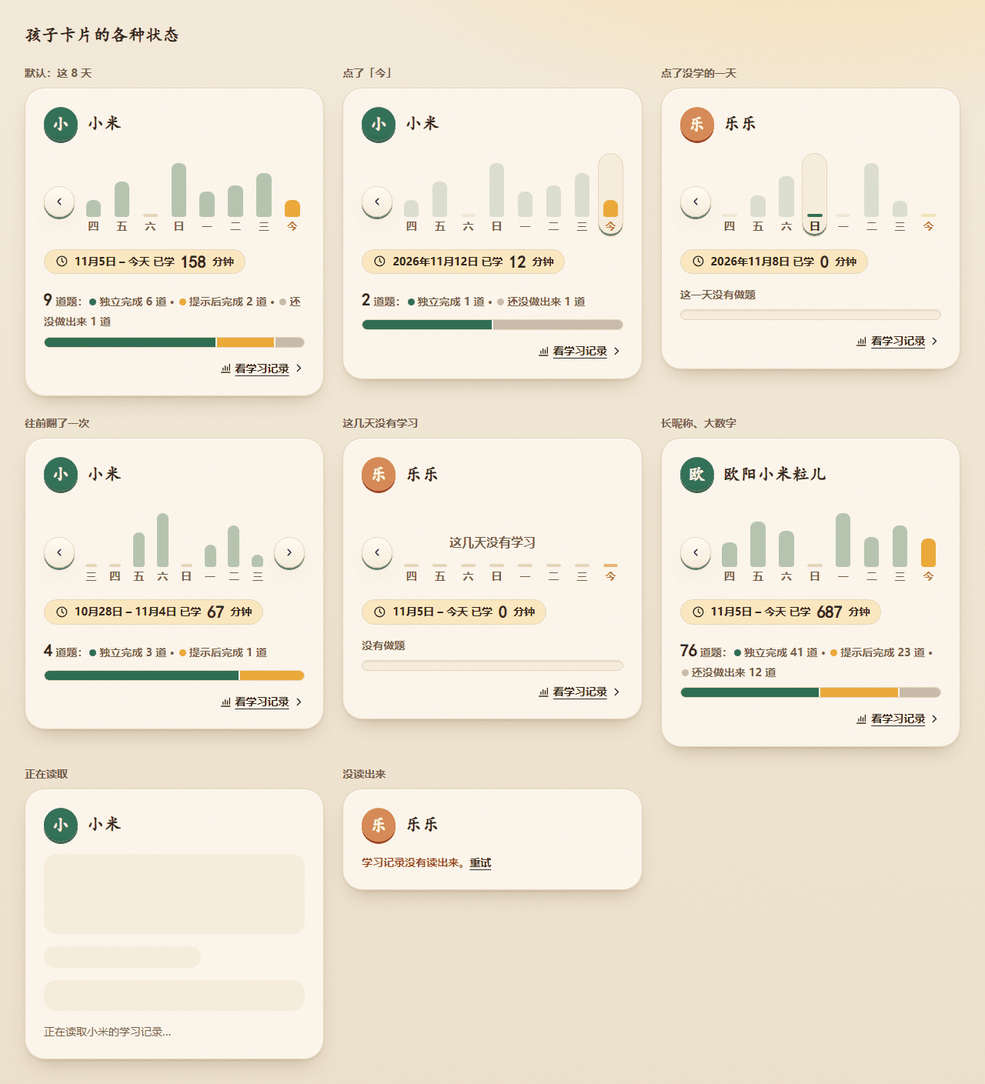
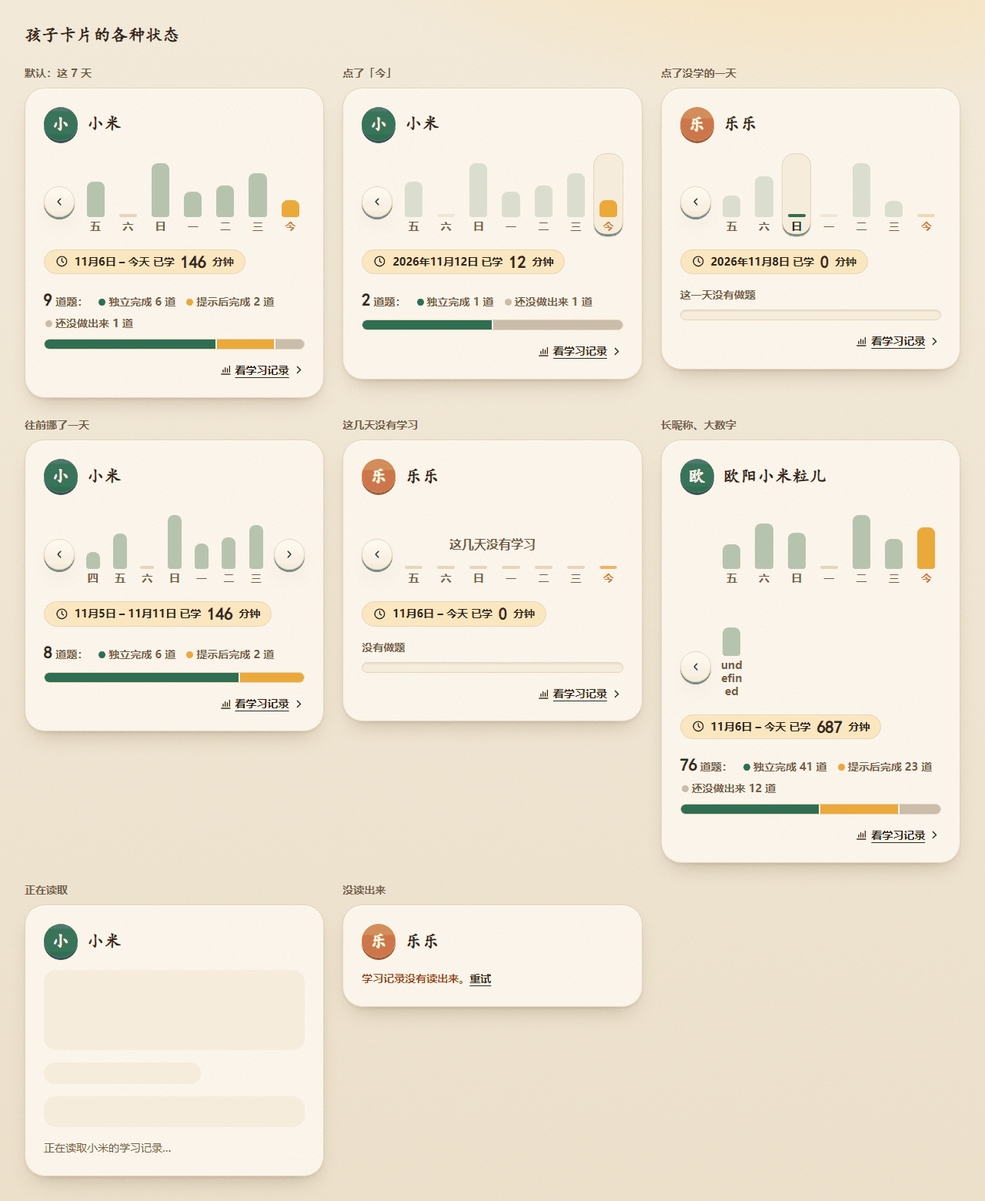
docs(design): show seven days on the child card and move them a day at a time (#164)
The chart shows today and the six days before it; each step moves the
window one day. The overview sends 28 days and earlier days come in blocks
of 28, so moving the window slides locally. The problems line keeps each
part whole, the given books show progress with a bar, and study time splits
into two pull requests.

Changed region(s): [[0.0, 0.0312, 1.0, 0.8432], [0.0312, 0.0, 0.1875, 0.1249], [0.0312, 0.9368, 0.1562, 0.9681]]

diff --git a/docs/design/family-overview.md b/docs/design/family-overview.md
@@ -1,6 +1,6 @@
 # 家长总览：每天的学习、学习时长和家庭时区
 
-- 状态：AI 草稿，等维护者确认第二版样稿。规则是维护者 2026-11-12 在 [#164](https://github.com/juanchaopan/education/issues/164) 定下的，看过第一版样稿后的修改记在 [#164 记录](../evidence/164/README.md#维护者的意见)。
+- 状态：AI 草稿，等维护者确认第三版样稿。规则是维护者 2026-11-12 在 [#164](https://github.com/juanchaopan/education/issues/164) 定下的，看过第一版样稿后的修改记在 [#164 记录](../evidence/164/README.md#维护者的意见)。
 - 需求：REQ-005、REQ-009、REQ-002、REQ-011（都有 2026-11-12 的澄清）。变更原因见 [变更记录](../changes/2026-11-12-family-overview.md)。
 - 涉及：`libs/contracts`；`apps/api` 的 `learning`（总览、每天的数字、一段时间的学习记录、学习计时）和 `identity`（家庭时区、注册、导出、删除）；`apps/web` 的家长空间（总览的孩子卡片、学习记录、「家庭」页）、题目页的计时和网站的白天晚上主题。「已安排」的书和进度照 [家长书架](bookshelf.md) 不变。
 
@@ -10,8 +10,8 @@
 
 之后：
 
-- 每个孩子一张卡片，最上面是每天学习分钟的柱子：今天和它前面的 7 天，一共 8 根。柱子也是选择器：点一天，下面的数字只看这一天，再点一下回到 8 天。
-- 往左能看更早的日子，边看边加载。
+- 每个孩子一张卡片，最上面是每天学习分钟的柱子，一次 7 根：默认是今天和它前面的 6 天。柱子也是选择器：点一天，下面的数字只看这一天，再点一下回到这 7 天。
+- 往左一天一天地看更早的日子，边看边加载。
 - 下面是这几天（或这一天）学了多少分钟，和一根按题分段的横条：做了几道题，其中独立完成、提示后完成、还没做出来各几道。
 - 学习时长有真实的来源：孩子在题目页上动手学的时间。
 - 每个家庭有自己的时区，一天从这个时区的 0 点算起；家里的页面也按它换白天和晚上的样子。时区和孩子、家庭码一起放在「家庭」页。
@@ -22,13 +22,13 @@
 ### 一天和看的日子
 
 - **一天**从家庭时区的 0 点开始，到下一个 0 点结束。今天还没过完，数字算到现在。
-- 卡片默认看**最近 8 天**：今天和它前面的 7 天，柱子下面依次写星期，今天写「今」。11 月 12 日周四看到的是 11 月 5 日到 11 月 12 日：四 五 六 日 一 二 三 今。
-- **往前看**：每点一次「‹」往前挪 8 天（10 月 28 日到 11 月 4 日，再往前 10 月 20 日到 10 月 27 日……），各段首尾相接、不重叠；挪回来点「›」。触屏上也可以左右滑。翻到孩子最早有记录的那一段时，「‹」不能点。
-- **选一天**：点一根柱子，数字只看这一天；再点同一根回到这 8 天。往前或往后挪时选择取消。
+- 柱子一次显示 **7 天**。默认是今天和它前面的 6 天，柱子下面依次写星期，今天写「今」：11 月 12 日周四看到的是 11 月 6 日到 11 月 12 日，五 六 日 一 二 三 今。
+- **往前看**：每点一次「‹」（或在触屏上往右滑一格），7 天整体往前挪**一天**：第一次是到昨天为止的 7 个完整日（11 月 5 日到 11 日），再点一次是 11 月 4 日到 10 日，以此类推；「›」往后挪一天，挪回到今天为止时「›」消失。翻到孩子最早有记录的那一天成为第一列时，「‹」不能点。
+- **选一天**：点一根柱子，数字只看这一天；再点同一根回到显示的 7 天。挪动时选择取消。
 
 ### 题怎么数
 
-数的是**道**，不是次。一段时间（8 天或一天）里，孩子提交过作答或要过提示的每一道题（按题目 id，同一道题的几个版本算一道）正好归进下面一类，三类加起来就是「做了几道题」：
+数的是**道**，不是次。一段时间（显示的 7 天或一天）里，孩子提交过作答或要过提示的每一道题（按题目 id，同一道题的几个版本算一道）正好归进下面一类，三类加起来就是「做了几道题」：
 
 | 类         | 这段时间里                                               |
 | ---------- | -------------------------------------------------------- |
@@ -36,7 +36,7 @@
 | 提示后完成 | 没有独立完成，至少有一次提示后完成                       |
 | 还没做出来 | 作答过或要过提示，但没有完成（答错、判不出或只看了提示） |
 
-- 一次作答算在它提交的那一天，一次提示算在要提示的那一天，都按家庭时区。所以同一道题在一天里是「还没做出来」，在包含第二天的 8 天里可能是「独立完成」。
+- 一次作答算在它提交的那一天，一次提示算在要提示的那一天，都按家庭时区。所以同一道题在一天里是「还没做出来」，在包含第二天的 7 天里可能是「独立完成」。
 - 提示后完成不算独立完成。数字只说做了什么，不说掌握了没有。
 - 变化题（#217）的结果不进这些数；家长怎样看变化题由 #219 决定。
 
@@ -73,13 +73,15 @@
 
 ## 接口
 
-一段时间的数字都是同一个形状：
+每一天的数字是一个 `Day`；显示的 7 天合起来的道数不能把每天的道数相加（同一道题可能两天都做），所以按需要由服务器另算：
 
 ```text
-Problems = { independent, assisted, open }       // 三类各几道题，加起来是做了几道
-Day      = { date, seconds, problems: Problems }
-Range    = { from, to, seconds, problems: Problems }
+Problems = { independent, assisted, open }   // 三类各几道题，加起来是做了几道
+Day      = { date, seconds, problems: Problems, ids: Outcome[] }
+Outcome  = [problemId, 'independent' | 'assisted' | 'open']   // 这一天每道题的类
 ```
+
+每一天带上这一天做过的题和类（`ids`，一天通常只有几道），网页把显示的 7 天里的 `ids` 合起来，按「独立完成 > 提示后完成 > 还没做出来」取每道题最好的一类，就得到 7 天合起来的道数，不用为每一次挪动再问服务器。分钟直接相加。
 
 ### 家长：总览
 
@@ -90,33 +92,32 @@ Range    = { from, to, seconds, problems: Problems }
   timeZone, today,                       // 家庭时区和它的今天，例如 '2026-11-12'
   children: [{
     id,
-    days:  [Day],                        // 8 项，从早到晚，最后一项是今天
-    range: Range,                        // 这 8 天合起来
-    hasEarlier,                          // 更早还有没有作答、提示或学习时长
+    days: [Day],                         // 今天和前面的 27 天，共 28 天，从早到晚
+    earliest,                            // 最早有作答、提示或学习时长的日子，没有记录时为 null
     review: [{ id, version, title, incorrect }]
   }]
 }
 ```
 
-- `children` 是家里的每个孩子，顺序和孩子列表一样；没有记录的孩子数字都是 0。
-- `review` 是学习摘要标为建议复习的题（答错过、还没有独立完成），和现在「值得再练」的规则一样；题目清单里找不到的版本不列。
-- 第一个 PR 先只给 `id`、按全部记录累计的 `total` 和 `review`，页面不变；学习时长的 PR 换成上面的形状。
+- 一次给 28 天：默认显示最后 7 天，往前挪 21 次以内都不用再请求。
+- `children` 是家里的每个孩子，顺序和孩子列表一样；`review` 是学习摘要标为建议复习的题，和现在「值得再练」的规则一样，题目清单里找不到的版本不列。
+- 第一个 PR 先只给 `id`、按全部记录累计的 `total` 和 `review`，页面不变；C2 换成上面的形状。
 
 ### 家长：更早的日子
 
-`GET /api/v1/parents/children/:childId/days?to=`，家长会话。`to` 是要看的 8 天的最后一天（`YYYY-MM-DD`）。回答 `{ days: [Day], range: Range, hasEarlier }`，`days` 是 `to` 和它前面的 7 天。`to` 不是合法日子或晚于今天：400；孩子不在这个家庭：404。
+`GET /api/v1/parents/children/:childId/days?to=`，家长会话。回答 `{ days: [Day] }`：`to`（`YYYY-MM-DD`）和它前面的 27 天。显示的 7 天离已加载的最早一天不到 7 天时，网页提前取下一块 28 天，挪动不等网络；`to` 早于 `earliest` 时不再取。`to` 不是合法日子或晚于今天：400；孩子不在这个家庭：404。
 
 ### 家长：一段时间的学习记录
 
-`GET /api/v1/parents/children/:childId/learning?from=&to=`，家长会话，`from` 到 `to` 最多 8 天。回答：
+`GET /api/v1/parents/children/:childId/learning?from=&to=`，家长会话，`from` 到 `to` 最多 7 天。回答：
 
 ```text
-{ range: Range,
+{ from, to, seconds, problems: Problems,
   items: [{ id, version, title, state, attempts, hints }],  // 这段时间做过的每道题
   total: { problems, seconds } }                             // 全部记录：做过几道题、一共学了多久
 ```
 
-`state` 是上表的三类之一，`attempts` 和 `hints` 是这段时间里的作答和提示次数；独立完成在前，然后是提示后完成和还没做出来，同一类按题名。超过 8 天、`from` 晚于 `to` 或 `to` 晚于今天：400。
+`state` 是上表的三类之一，`attempts` 和 `hints` 是这段时间里的作答和提示次数；独立完成在前，然后是提示后完成和还没做出来，同一类按题名。超过 7 天、`from` 晚于 `to` 或 `to` 晚于今天：400。
 
 ### 孩子：学习计时
 
@@ -144,19 +145,19 @@ Range    = { from, to, seconds, problems: Problems }
 每个孩子一张卡片，从上到下：
 
 1. 头像和昵称。
-2. **柱子**：8 列，每列是一个切换按钮（`aria-pressed`），整列都能点，没学的一天只有一道细线，上面照样留出空白可以点。柱高是这一天的学习分钟，按这 8 天里最多的一天定比例；柱子上不写数字，读屏读「11 月 5 日 12 分钟」。今天那一列的字写「今」，柱子和别的一样画，只换成强调色。选中的一列有浅底和厚度边，别的列的柱子变淡。左边一个圆形的「‹」按钮往前看；往前看过以后右边出现「›」往回看。这 8 天都没学时，柱子上方一行「这几天没有学习」，卡片其余部分照常。
-3. **分钟**：一枚胶囊。8 天时写「11月5日 – 今天 已学 158 分钟」（往前看时是「10月28日 – 11月4日 已学 67 分钟」）；选了一天写「2026年11月12日 已学 12 分钟」。今天学了多少点「今」就能看到，不另写一行。
-4. **题**：一行字「9 道题：独立完成 6 道 · 提示后完成 2 道 · 还没做出来 1 道」（是 0 的类不写），下面一根横条，按三类的道数分段，颜色和字前的圆点对应。没有题时写「没有做题」（选了一天时「这一天没有做题」），横条是空的。
-5. 右下角「看学习记录」，去这个孩子的学习记录，带上卡片现在看的日子：选了一天就是这一天，否则是这 8 天。
+2. **柱子**：7 列，每列是一个切换按钮（`aria-pressed`），整列都能点，没学的一天只有一道细线，上面照样留出空白可以点。柱高是这一天的学习分钟，按显示的 7 天里最多的一天定比例；柱子上不写数字，读屏读「11 月 5 日 12 分钟」。今天那一列的字写「今」，柱子和别的一样画，只换成强调色。选中的一列有浅底和厚度边，别的列的柱子变淡。左边一个圆形的「‹」按钮往前挪一天；往前挪过以后右边出现「›」往后挪一天。显示的 7 天都没学时，柱子上方一行「这几天没有学习」，卡片其余部分照常。
+3. **分钟**：一枚胶囊。默认写「11月6日 – 今天 已学 146 分钟」（往前挪一天时是「11月5日 – 11月11日 已学 146 分钟」）；选了一天写「2026年11月12日 已学 12 分钟」。今天学了多少点「今」就能看到，不另写一行。
+4. **题**：一行字「9 道题：独立完成 6 道　提示后完成 2 道　还没做出来 1 道」（是 0 的类不写；每一段不拆开，桌面上一行放下，手机上整段换行），下面一根横条，按三类的道数分段，颜色和字前的圆点对应。没有题时写「没有做题」（选了一天时「这一天没有做题」），横条是空的。
+5. 右下角「看学习记录」，去这个孩子的学习记录，带上卡片现在看的日子：选了一天就是这一天，否则是显示的 7 天。
 
 其他状态：正在读取时是柱子、胶囊和横条的骨架；没读出来时一行「学习记录没有读出来。」和「重试」。卡片上不安排书。
 
-「值得再练」「已安排」不变。底部的设置列表把原来没有的「家庭」加在 AI 老师下面，右边小字「孩子、家庭码、时区」，去「家庭」页。
+「值得再练」不变。「已安排」每行右边的「5 / 12」不再放在圆角框里，改成数字下面一根细进度条，和 #221 孩子首页的样子一样。底部的设置列表把原来没有的「家庭」加在 AI 老师下面，右边小字「孩子、家庭码、时区」，去「家庭」页。
 
 ### 学习记录（`/family/learning`）
 
 1. 最上面一行选孩子，和书架上选孩子的一行同样的胶囊，换掉现在的下拉框。
-2. **这段时间**卡片：地址里 `?child=<id>&from=<日子>&to=<日子>`，从总览过来时就是卡片看的日子；直接打开时是最近 8 天。标题是日子（一天写「2026年11月12日 周四」，8 天写「11月5日 – 今天」）；看一天时右边有「看这 8 天」，换成包含这一天的 8 天。下面是分钟胶囊、题的横条，再下面列出这段时间做过的每道题：题名，「作答 2 次 · 提示 0 次」，右边是这道题这段时间的类（独立完成、提示后完成、还没做出来的徽章）。
+2. **这段时间**卡片：地址里 `?child=<id>&from=<日子>&to=<日子>`，从总览过来时就是卡片看的日子；直接打开时是今天和前 6 天，最多 7 天。标题是日子（一天写「2026年11月12日 周四」，7 天写「11月6日 – 今天」）；看一天时右边有「看这 7 天」，换成以这一天为最后一天的 7 天（今天就是今天和前 6 天）。下面是分钟胶囊、题的横条，再下面列出这段时间做过的每道题：题名，「作答 2 次 · 提示 0 次」，右边是这道题这段时间的类（独立完成、提示后完成、还没做出来的徽章）。
 3. **学习摘要**卡片：最上面一行全部记录的累计「一共做过 38 道题 · 学了 6 小时 20 分」（不到 1 小时写「45 分钟」），下面是现在每道题的摘要，内容不变。
 
 第一版样稿里学习记录的「前 7 天 / 后 7 天」翻页去掉了，往前看在总览的柱子上做；那一版的「一共」累计搬到学习摘要卡片的第一行。
@@ -187,26 +188,27 @@ Range    = { from, to, seconds, problems: Problems }
 
 ## 实现要点
 
-- `learning/domain`：日子的计算（家庭时区的今天、8 天一段的起止、按时区把时刻归到日子）和题的分类都是不依赖数据库的纯函数。日子用 `Intl` 换算，不手写偏移，夏令时由它处理。
-- 仓储一次查一个家庭全部孩子 8 天的作答、提示和学习时长，不按孩子或按天逐个查；按时区分天在 SQL 里用 `AT TIME ZONE` 做。
+- `learning/domain`：日子的计算（家庭时区的今天、显示的 7 天的起止、28 天一块的起止、按时区把时刻归到日子）和题的分类都是不依赖数据库的纯函数。日子用 `Intl` 换算，不手写偏移，夏令时由它处理。
+- 仓储一次查一个家庭全部孩子这几天的作答、提示和学习时长，不按孩子或按天逐个查；按时区分天在 SQL 里用 `AT TIME ZONE` 做。
 - 学习计时的事务锁住这个孩子的 `study_beats` 一行，再加到 `study_days`，并发的心跳排队，不多算。
 - 网页的计时放在题目页的公共外壳里，所有题目共用，题目自己不写。
-- 柱子往前看时用「更早的日子」接口按需加载，加载过的段留在缓存里；触屏左右滑和按钮走同一个状态。
+- 柱子挪动只在网页里滑动已加载的日子，快到头时提前取下一块 28 天，加载过的留在缓存里；触屏左右滑和按钮走同一个状态。
 - 主题的计算 `themeAt` 接一个时区参数；页面开着时每分钟检查一次，跨过切换时刻就换。
 
 ## 测试
 
-- 单元：日子的计算（时区边界、夏令时那天、今天算到现在、8 天一段首尾相接）；题的分类，三类各一条例子，再加一道题跨两天的例子；心跳间隔（30 秒、正好 90 秒、91 秒、重复心跳、跨午夜）。
+- 单元：日子的计算（时区边界、夏令时那天、今天算到现在、7 天窗口一天一天挪）；题的分类，三类各一条例子，再加一道题跨两天的例子；心跳间隔（30 秒、正好 90 秒、91 秒、重复心跳、跨午夜）。
 - 接口：三个家长接口的每个错误；家庭隔离；时区的读写和校验；注册带和不带时区。
 - 数据库：两次并发心跳只加一次间隔；删除家庭后没有学习时长留下；导出包括时区和每一天。
-- 页面：卡片的每个状态（默认、选一天、选没学的一天、往前看、没有学习、读取中、没读出来），学习记录的一天和 8 天，「家庭」页和时区卡片的每个状态（Storybook、视觉基准，白天和晚上，桌面和手机）；e2e 走一遍孩子学一会儿、家长在卡片上看到分钟并点开那一天。
+- 页面：卡片的每个状态（默认、选一天、选没学的一天、往前挪一天、没有学习、读取中、没读出来），学习记录的一天和 7 天，「家庭」页和时区卡片的每个状态（Storybook、视觉基准，白天和晚上，桌面和手机）；e2e 走一遍孩子学一会儿、家长在卡片上看到分钟并点开那一天。
 
 ## 分 PR
 
 都挂在 #164 下，在本地叠着做，按顺序合并：
 
-| PR  | 内容                                                                                                                                                           |
-| --- | -------------------------------------------------------------------------------------------------------------------------------------------------------------- |
-| A   | 总览汇总接口（累计和值得再练），总览改读它，页面不变                                                                                                           |
-| B   | 「家庭」页（改名、换地址、家庭码卡片）；家庭时区：迁移、注册带时区、读写接口、时区卡片、主题按家庭时区切换；改视觉语言和 REQ-011 的说法                        |
-| C   | 学习时长：迁移、心跳接口、题目页计时；总览换成每天的数字、孩子卡片的柱子和横条、更早的日子；学习记录的这段时间卡片和累计；导出、删除和隐私说明；e2e 和视觉基准 |
+| PR  | 内容                                                                                                                                    |
+| --- | --------------------------------------------------------------------------------------------------------------------------------------- |
+| A   | 总览汇总接口（累计和值得再练），总览改读它，页面不变                                                                                    |
+| B   | 「家庭」页（改名、换地址、家庭码卡片）；家庭时区：迁移、注册带时区、读写接口、时区卡片、主题按家庭时区切换；改视觉语言和 REQ-011 的说法 |
+| C1  | 学习时长：迁移、心跳接口、题目页计时；导出、删除和隐私说明                                                                              |
+| C2  | 总览换成每天的数字、孩子卡片的柱子和横条、更早的日子；学习记录的这段时间卡片和累计；e2e 和视觉基准                                      |

diff --git a/docs/evidence/164/README.md b/docs/evidence/164/README.md
@@ -1,6 +1,6 @@
 # #164 家长总览：样稿
 
-[#164](https://github.com/juanchaopan/education/issues/164) 的第二版样稿，等维护者确认。设计见 [家长总览：每天的学习、学习时长和家庭时区](../../design/family-overview.md)。
+[#164](https://github.com/juanchaopan/education/issues/164) 的第三版样稿，等维护者确认。设计见 [家长总览：每天的学习、学习时长和家庭时区](../../design/family-overview.md)。
 
 ## 怎么做的
 
@@ -11,7 +11,7 @@
 - 标题用 Windows 的系统楷体代替霞鹜文楷，字形略有不同；图标是照着 `shared/ui/icons.tsx` 的样子简画的；按钮照现有的按钮近似画出，正式页面直接用网站的按钮部件。
 - 「已安排」的封面是纯色块，正式页面照 #179 显示封面或默认封面。
 - 手机截图是整页截的，底部标签栏画在页面最下面；正式页面上它浮在屏幕底边。
-- 数字都是样稿用的例子。今天是 2026 年 11 月 12 日周四，最近 8 天是 11 月 5 日到 11 月 12 日。
+- 数字都是样稿用的例子。今天是 2026 年 11 月 12 日周四，默认显示的 7 天是 11 月 6 日到 11 月 12 日。
 
 ## 截图
 
@@ -19,26 +19,26 @@
 
 ### 总览的孩子卡片
 
-| 截图                                                               | 画的是什么                                                                                                                                                                 |
-| ------------------------------------------------------------------ | -------------------------------------------------------------------------------------------------------------------------------------------------------------------------- |
-| [overview-desktop.png](overview-desktop.png)                       | 桌面白天，默认看 8 天：最上面 8 根柱子（四 五 六 日 一 二 三 今，「今」用强调色），左边「‹」；分钟胶囊「11月5日 – 今天 已学 158 分钟」；题的横条；设置列表里新加的「家庭」 |
-| [overview-night-desktop.png](overview-night-desktop.png)           | 同上，晚上主题                                                                                                                                                             |
-| [overview-phone.png](overview-phone.png)                           | 手机白天，总览整页                                                                                                                                                         |
-| [overview-day-picked-desktop.png](overview-day-picked-desktop.png) | 小米点了「今」：这一列有浅底，别的柱子变淡，「2026年11月12日 已学 12 分钟」，2 道题；乐乐点了没学的 11 月 8 日：「这一天没有做题」                                         |
-| [overview-day-picked-phone.png](overview-day-picked-phone.png)     | 同上，手机                                                                                                                                                                 |
-| [overview-earlier-desktop.png](overview-earlier-desktop.png)       | 小米往前看了一次：10月28日 – 11月4日，右边出现「›」                                                                                                                        |
-| [overview-quiet-desktop.png](overview-quiet-desktop.png)           | 乐乐这 8 天没有学习：柱子上方「这几天没有学习」，分钟胶囊和「没有做题」照常                                                                                                |
-| [card-kit-day.png](card-kit-day.png)                               | 卡片的全部状态：默认、点了「今」、点了没学的一天、往前看、这几天没有学习、长昵称和大数字、正在读取、没读出来                                                               |
-| [card-kit-night.png](card-kit-night.png)                           | 同上，晚上主题                                                                                                                                                             |
+| 截图                                                               | 画的是什么                                                                                                                                                                                                                    |
+| ------------------------------------------------------------------ | ----------------------------------------------------------------------------------------------------------------------------------------------------------------------------------------------------------------------------- |
+| [overview-desktop.png](overview-desktop.png)                       | 桌面白天，默认显示 7 天：最上面 7 根柱子（五 六 日 一 二 三 今，「今」用强调色），左边「‹」；分钟胶囊「11月6日 – 今天 已学 146 分钟」；题的横条，每一段不拆开换行；「已安排」的进度是数字加细进度条；设置列表里新加的「家庭」 |
+| [overview-night-desktop.png](overview-night-desktop.png)           | 同上，晚上主题                                                                                                                                                                                                                |
+| [overview-phone.png](overview-phone.png)                           | 手机白天，总览整页                                                                                                                                                                                                            |
+| [overview-day-picked-desktop.png](overview-day-picked-desktop.png) | 小米点了「今」：这一列有浅底，别的柱子变淡，「2026年11月12日 已学 12 分钟」，2 道题；乐乐点了没学的 11 月 8 日（日）：「这一天没有做题」                                                                                      |
+| [overview-day-picked-phone.png](overview-day-picked-phone.png)     | 同上，手机                                                                                                                                                                                                                    |
+| [overview-earlier-desktop.png](overview-earlier-desktop.png)       | 小米往前挪了一天：到昨天为止的 7 个完整日 11月5日 – 11月11日，右边出现「›」                                                                                                                                                   |
+| [overview-quiet-desktop.png](overview-quiet-desktop.png)           | 乐乐显示的 7 天都没有学习：柱子上方「这几天没有学习」，分钟胶囊和「没有做题」照常                                                                                                                                             |
+| [card-kit-day.png](card-kit-day.png)                               | 卡片的全部状态：默认、点了「今」、点了没学的一天、往前挪一天、这几天没有学习、长昵称和大数字、正在读取、没读出来                                                                                                              |
+| [card-kit-night.png](card-kit-night.png)                           | 同上，晚上主题                                                                                                                                                                                                                |
 
 ### 学习记录
 
 | 截图                                                             | 画的是什么                                                                                                                                                                         |
 | ---------------------------------------------------------------- | ---------------------------------------------------------------------------------------------------------------------------------------------------------------------------------- |
-| [learning-day-desktop.png](learning-day-desktop.png)             | 从小米的卡片选了「今」后点「看学习记录」：选孩子的胶囊；「2026年11月12日 周四」卡片，右边「看这 8 天」；分钟、题的横条和这一天做过的每道题；下面学习摘要卡片第一行是全部记录的累计 |
+| [learning-day-desktop.png](learning-day-desktop.png)             | 从小米的卡片选了「今」后点「看学习记录」：选孩子的胶囊；「2026年11月12日 周四」卡片，右边「看这 7 天」；分钟、题的横条和这一天做过的每道题；下面学习摘要卡片第一行是全部记录的累计 |
 | [learning-day-night-desktop.png](learning-day-night-desktop.png) | 同上，晚上主题                                                                                                                                                                     |
 | [learning-day-phone.png](learning-day-phone.png)                 | 同上，手机                                                                                                                                                                         |
-| [learning-range-desktop.png](learning-range-desktop.png)         | 没选日子时点「看学习记录」：「11月5日 – 今天」这 8 天                                                                                                                              |
+| [learning-range-desktop.png](learning-range-desktop.png)         | 没选日子时点「看学习记录」：「11月6日 – 今天」这 7 天                                                                                                                              |
 
 ### 家庭
 
@@ -64,3 +64,11 @@
 - 时区放在「家庭」页：「孩子」标签改名「家庭」，放孩子、家庭码和时区；总览底部的设置列表链过去。
 - 全站的按钮和部件是同一种有质感、立体的样子，题目里的可以大一些；不为每页另做。家长空间整体的立体改版另开 issue，这里只改上面几处。
 - 「今」的柱子和别的一样画，只是高亮，不用彩色条纹。
+
+2026-11-12 看过第二版样稿后：
+
+- 柱子一次 7 根，不是 8 根：默认是今天和前 6 天，「今」在最后；「‹」或滑动一次往前挪一天，第一次是到昨天为止的 7 个完整日；「›」往后挪一天。数字看显示的 7 天，或点的那一天。
+- 显示的几天都没学时写「这几天没有学习」。
+- 题的那行字不要把「道」单独挤到第二行；「已安排」的「5 / 12」配一根进度条，和 #221 的孩子首页一样，不放在圆角框里。
+- 「家庭」页的地址是 `/family/profile`，`/family/children` 转过去。
+- 学习时长的 PR 拆成两个：C1 计时、数据和导出，C2 卡片和学习记录。学习记录一次最多看 7 天。

diff --git a/docs/changes/2026-11-12-family-overview.md b/docs/changes/2026-11-12-family-overview.md
@@ -10,7 +10,7 @@
 
 之后：
 
-- 孩子卡片最上面是每天学习分钟的柱子：今天和前面的 7 天共 8 根，今天写「今」。柱子也是选择器，点一天只看这一天；往左能看更早的日子。
+- 孩子卡片最上面是每天学习分钟的柱子，一次 7 根，默认是今天和前面的 6 天，今天写「今」；「‹」「›」一次挪一天。柱子也是选择器，点一天只看这一天。
 - 柱子下面是这几天（或这一天）学了几分钟，和一根按**道**分段的横条：独立完成、提示后完成、还没做出来各几道，加起来是做了几道题。
 - 学习时长只在题目页可见、孩子 2 分钟内动过手时计时，每个孩子每天一个总数。
 - 每个家庭有一个时区：注册时取家长浏览器的时区，家长在「家庭」页修改；它决定一天从几点开始，也决定家里页面白天和晚上主题的切换。「孩子」页改名「家庭」，放孩子、家庭码、注册 KEY 和时区。
@@ -19,7 +19,7 @@
 
 ## 为什么
 
-- 自然周到了周一就清零，周一早上看到的都是 0；今天和前 7 天每天都能看到一段完整的一周，今天的也在里面，点「今」就是今天。
+- 自然周到了周一就清零，周一早上看到的都是 0；今天和前 6 天正好一周，今天的也在里面，点「今」就是今天；往前挪一天就是到昨天为止的完整 7 天。
 - 次数和道数混在一起时几块数字对不上；按道分成三类，加起来正好是做了几道题，家长一眼看出有几道还没做出来。
 - 家长想知道孩子花了多少时间，题数说明不了这个；只在动手时计时，开着页面走开不会被算成学习。
 - 一天从几点开始要按家庭所在的地方算，不能按服务器或某一台设备；主题也跟着家庭的钟走，家里几台设备看到的一样。
@@ -37,7 +37,7 @@
 
 ## 决定
 
-- 卡片默认看今天和前 7 天；「‹」每次往前挪 8 天，各段首尾相接；点一天只看这一天，再点回到 8 天。
+- 卡片一次显示 7 天，默认今天和前 6 天；「‹」「›」每次挪一天；点一天只看这一天，再点回到显示的 7 天。总览一次给 28 天，更早的按 28 天一块按需取，挪动在网页里滑。
 - 题按道数，同一道题的几个版本算一道；一段时间里每道题归进独立完成、提示后完成、还没做出来之一；变化题的结果不进这些数。
 - 学习时长由服务器按心跳的间隔算，间隔超过 90 秒的一段不算；断网时不算；上线以前的学习没有时长。
 - 家庭时区存 IANA 名字；已有家庭在家长下次打开家长空间时取这台设备的时区，之前用 `DEFAULT_TIME_ZONE`（默认 `Asia/Shanghai`）。
@@ -52,8 +52,9 @@
 
 都挂在 #164 下，不另开 issue：
 
-| PR  | 内容                                                                                            |
-| --- | ----------------------------------------------------------------------------------------------- |
-| A   | 总览汇总接口，总览改读它，页面不变                                                              |
-| B   | 「家庭」页、家庭时区和按家庭时区切换主题                                                        |
-| C   | 学习时长、孩子卡片的柱子和横条、更早的日子、学习记录的这段时间、导出和删除，以及 e2e 和视觉基准 |
+| PR  | 内容                                                                      |
+| --- | ------------------------------------------------------------------------- |
+| A   | 总览汇总接口，总览改读它，页面不变                                        |
+| B   | 「家庭」页、家庭时区和按家庭时区切换主题                                  |
+| C1  | 学习时长：计时、数据、导出和删除                                          |
+| C2  | 孩子卡片的柱子和横条、更早的日子、学习记录的这段时间，以及 e2e 和视觉基准 |

diff --git a/docs/product/requirements.md b/docs/product/requirements.md
@@ -47,7 +47,7 @@
 - 验收标准：Given 已保存的进度，When 重新登录，Then 可恢复该儿童的记录。Given 使用提示完成，When 家长查看，Then 能区分提示后完成与独立完成。Given 多个孩子，Then 各自学习记录隔离。
 - 已确认：家长查看进度、独立成功、提示使用、反复困难、建议复习；可选择练习及重置儿童访问。默认不保留原始音频与绘图。待确认：掌握判定、数据保留与删除规则。
 - 2026-11-12 澄清（维护者在 [#209](https://github.com/juanchaopan/education/issues/209) 和 [#217](https://github.com/juanchaopan/education/issues/217) 确认）：变化题也留下学习证据。逐幕探究里，猜的数是首答，独立答对、提示后答对和答错分开记，判为无法判定时不记、请孩子再说一次。理由单独记一项，结果只有说清了和没说清，说反了和说的不是这回事都算没说清；没说清以后孩子得到提示可以再说，记第一次的结果和最后的结果（独立说清、提示后说清、没说清）。只存结果，不存孩子的原话。家庭导出按题目列出变化题做到了什么、还缺什么，下面是每一次的明细；收回一本书时变化题记录保留。记录由 [#217](https://github.com/juanchaopan/education/issues/217) 实现，家长摘要显示变化题结果由 [#219](https://github.com/juanchaopan/education/issues/219) 先出样稿再做。
-- 2026-11-12 澄清（维护者在 [#164](https://github.com/juanchaopan/education/issues/164) 确认，看过第一版样稿后修改）：家长总览每个孩子一张卡片，最上面是每天学习分钟的柱子：今天和前面的 7 天共 8 根，今天写「今」，一天按家庭时区从 0 点算起，不用本周和自然周。柱子也是选择器：默认看这 8 天，点一天只看这一天，再点回到 8 天；往左能看更早的日子。柱子下面是这几天（或这一天）学了几分钟，和一根按题分段的横条：做了几道题，其中独立完成、提示后完成、还没做出来各几道，数道不数次，几段加起来是总数。这几天没有学习时只在柱子那一块写明，卡片其余部分照常。「看学习记录」打开卡片选的日子；全部记录的累计在学习记录里。总览的数字由服务器一次给出。
+- 2026-11-12 澄清（维护者在 [#164](https://github.com/juanchaopan/education/issues/164) 确认，看过第一版样稿后修改）：家长总览每个孩子一张卡片，最上面是每天学习分钟的柱子，一次 7 根：默认是今天和前面的 6 天，今天写「今」，一天按家庭时区从 0 点算起，不用本周和自然周。「‹」或滑动一次往前挪一天，「›」往后挪一天。柱子也是选择器：默认看显示的 7 天，点一天只看这一天，再点回到这 7 天。柱子下面是这几天（或这一天）学了几分钟，和一根按题分段的横条：做了几道题，其中独立完成、提示后完成、还没做出来各几道，数道不数次，几段加起来是总数。显示的几天都没有学习时只在柱子那一块写「这几天没有学习」，卡片其余部分照常。「看学习记录」打开卡片选的日子；全部记录的累计在学习记录里。总览的数字由服务器一次给出。
   - 学习时长：只在题目页可见、孩子最近 2 分钟内动过手时计时，每个孩子每天一个总数；由服务器按页面心跳的间隔算，间隔超过 90 秒的一段不算，断网时不算。这项功能上线以前的学习没有时长。
   - 数字只说做了多少，不说是否掌握；提示后完成不算独立完成。设计见 [家长总览：每天的学习、学习时长和家庭时区](../design/family-overview.md)。
 
